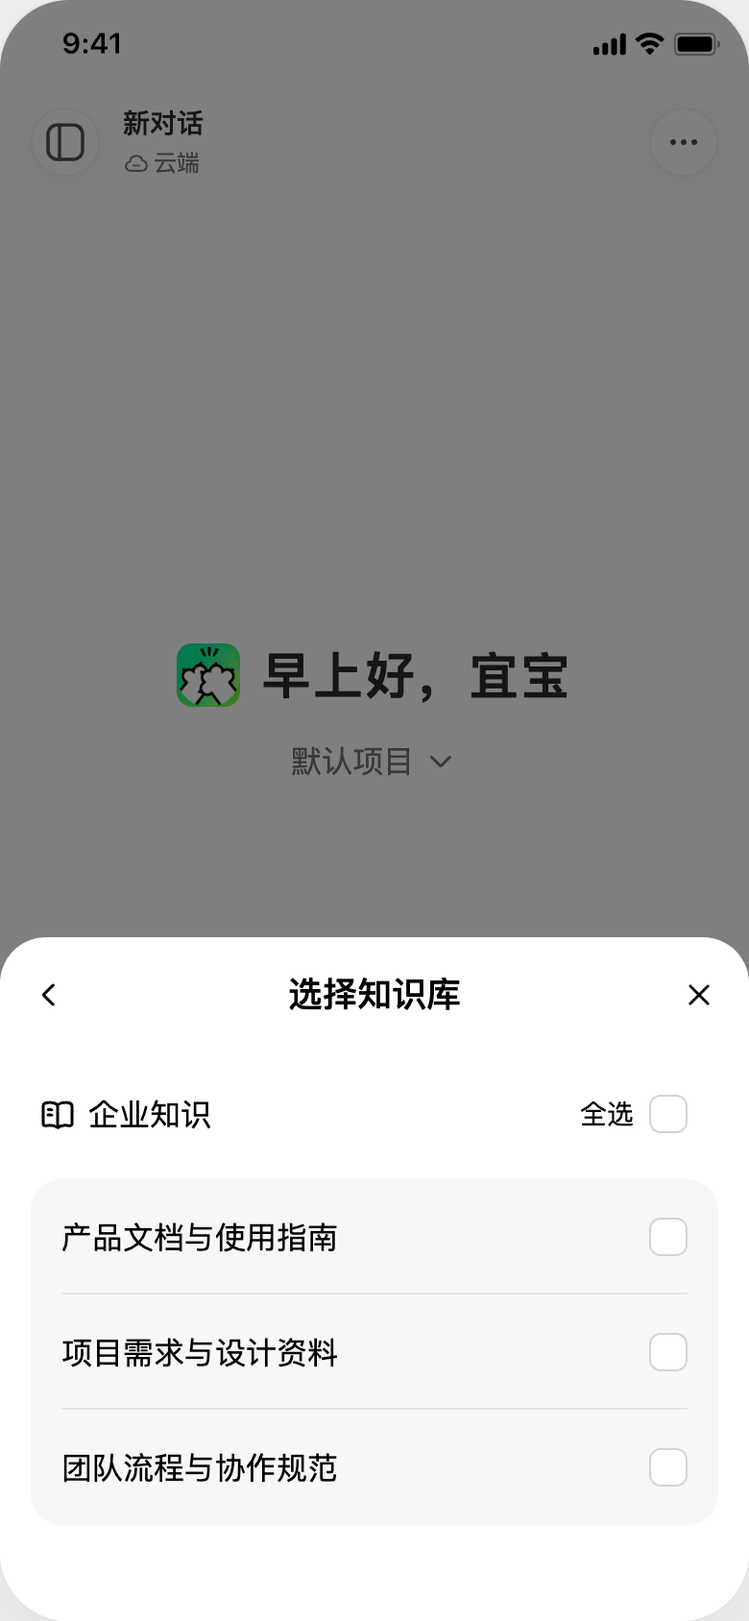
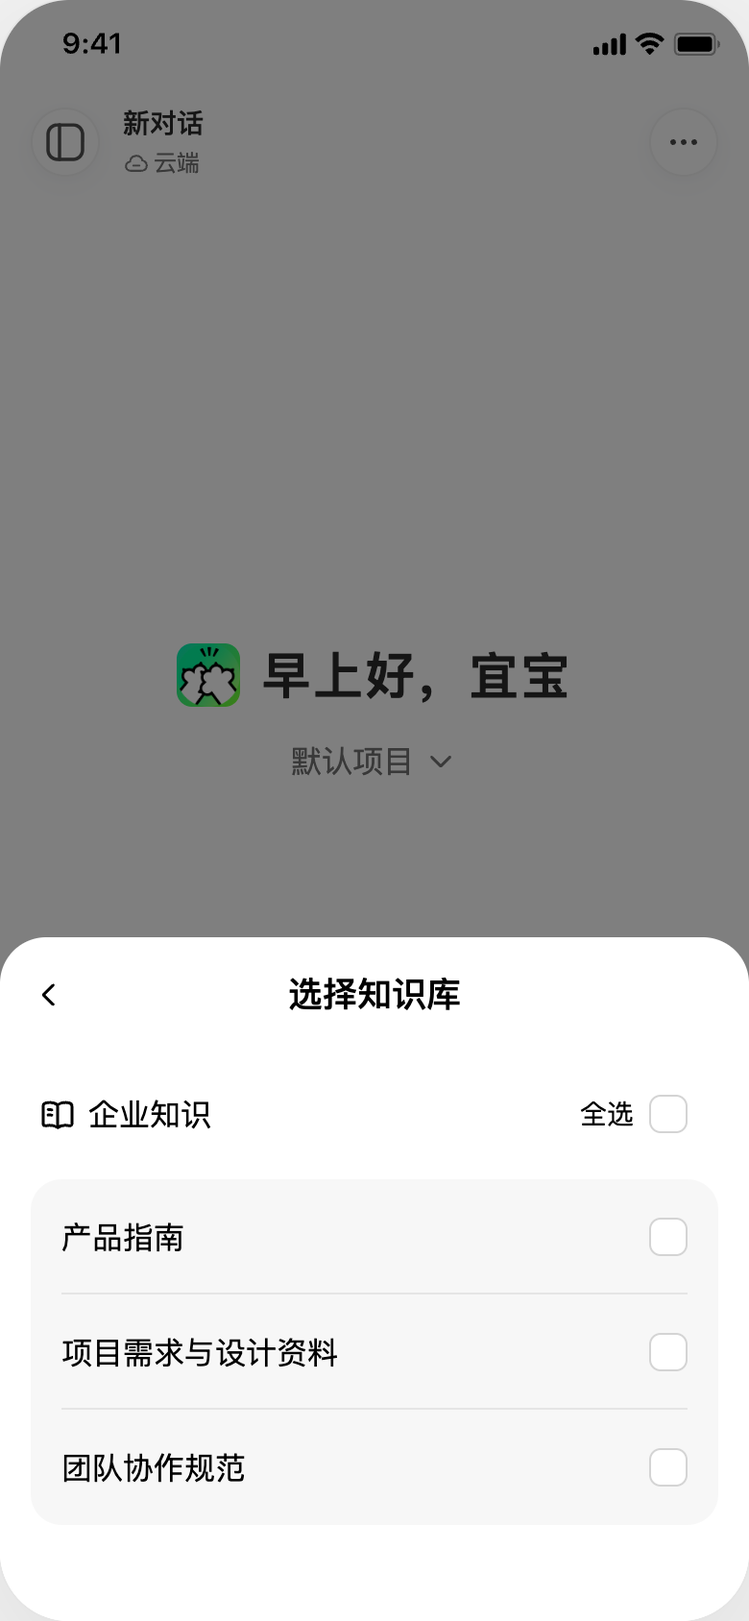
Refine knowledge tags and picker presentation

Changed region(s): [[0.1538, 0.8934, 0.4615, 0.9242], [0.1538, 0.7393, 0.4615, 0.7701]]

diff --git a/app.js b/app.js
@@ -22,13 +22,12 @@ let currentExpert = '';
     const palette = mobileExperts.find(expert => expert.name === name)?.palette || 'data';
     return `<svg class="expert-avatar${rounded ? ' expert-avatar-rounded' : ''}" viewBox="0 0 24 24" aria-hidden="true" focusable="false">${rounded ? `<rect width="24" height="24" rx="6" fill="var(--expert-${palette}-background)"/>` : `<circle cx="12" cy="12" r="12" fill="var(--expert-${palette}-background)"/>`}<path d="M4.2 24V12.3c0-3.4 1-6.5 2.8-8.9l2 3.4a8.5 8.5 0 0 1 6.4-.5l1.3-2.9c2 2.8 3.3 5.6 3.3 8.9 0 3.2-1.2 5.3-3.2 6.1-.5.2-.6.5-.6 1V24Z" fill="var(--expert-${palette}-face)"/><circle cx="10.6" cy="11.7" r="1" fill="var(--expert-${palette}-accent)"/><circle cx="15.8" cy="11.4" r="1" fill="var(--expert-${palette}-accent)"/></svg>`;
   }
-function pickerSheetHeader(title, closeId = '', fromAdd = false) {
-  const action = closeId ? `id="${closeId}"` : 'data-action="close-sheet"';
+function pickerSheetHeader(title, fromAdd = false) {
   const back = fromAdd ? '<button type="button" class="picker-sheet-back" data-action="back-to-add" aria-label="返回添加面板"><svg aria-hidden="true" viewBox="0 0 24 24"><path d="m14 6-6 6 6 6" fill="none" stroke="currentColor" stroke-width="1.8" stroke-linecap="round" stroke-linejoin="round"/></svg></button>' : '<span></span>';
-  return `<div class="picker-sheet-heading">${back}<h2 class="sheet-title" id="sheet-title">${title}</h2><button type="button" ${action} aria-label="关闭面板">${icon('close')}</button></div>`;
+  return `<div class="picker-sheet-heading">${back}<h2 class="sheet-title" id="sheet-title">${title}</h2><span aria-hidden="true"></span></div>`;
 }
 function openExperts({ fromAdd = false } = {}) {
-  showSheet(`${pickerSheetHeader('我的专家', '', fromAdd)}<div class="mobile-expert-list" role="group" aria-label="选择专家">${mobileExperts.map(expert => `<button type="button" class="mobile-expert-row" data-expert="${expert.name}" aria-pressed="${expert.name === currentExpert}">${mobileExpertAvatar(expert.name,true)}<span class="mobile-expert-copy"><strong>${expert.name}</strong><small>${expert.description}</small></span><span class="mobile-expert-state">${expert.name===currentExpert?'已选':''}</span></button>`).join('')}</div>`, 'experts-sheet');
+  showSheet(`${pickerSheetHeader('我的专家', fromAdd)}<div class="mobile-expert-list" role="group" aria-label="选择专家">${mobileExperts.map(expert => `<button type="button" class="mobile-expert-row" data-expert="${expert.name}" aria-pressed="${expert.name === currentExpert}">${mobileExpertAvatar(expert.name,true)}<span class="mobile-expert-copy"><strong>${expert.name}</strong><small>${expert.description}</small></span><span class="mobile-expert-state">${expert.name===currentExpert?'已选':''}</span></button>`).join('')}</div>`, 'experts-sheet');
 }
 let currentSkill = '';
 let model = 'Auto';
@@ -78,7 +77,7 @@ function openAdd() {
   showSheet(`<h2 id="sheet-title" hidden>添加到对话</h2><div class="attachment-grid">${[['camera','拍照'],['image','相册'],['file','文件'],['book','资料库']].map(([name,label]) => `<button class="attachment-tile" data-attachment="${name}">${icon(name)}<span>${label}</span></button>`).join('')}</div>${[['brain','专家','experts'],['book','知识库','knowledge'],['skills','技能','skills'],['terminal','自定义命令','commands']].map(([name,label,action])=>`<button class="action-row" data-action="${action}"><span class="row-icon">${icon(name)}</span><strong>${label}</strong></button>`).join('')}`, 'add-sheet');
 }
 function openSkills({ fromAdd = false } = {}) {
-  showSheet(`${pickerSheetHeader('我的技能', '', fromAdd)}<div class="skill-list">${skills.map(([name,description,type],i)=>`<button class="skill-row" data-skill="${i}"><span class="skill-art ${type}">${type==='palette'?'<img src="assets/logo.png" alt="">':`<img src="assets/${{docx:'artifact-doc',pdf:'artifact-pdf',pptx:'artifact-ppt','skill-creator':'artifact-markdown',xlsx:'artifact-excel'}[name]}.svg" alt="">`}</span><span class="skill-copy"><span class="skill-name">${name}<span class="badge">内置</span></span><span class="skill-description">${description}</span></span></button>`).join('')}</div>`, 'skills-sheet');
+  showSheet(`${pickerSheetHeader('我的技能', fromAdd)}<div class="skill-list">${skills.map(([name,description,type],i)=>`<button class="skill-row" data-skill="${i}"><span class="skill-art ${type}">${type==='palette'?'<img src="assets/logo.png" alt="">':`<img src="assets/${{docx:'artifact-doc',pdf:'artifact-pdf',pptx:'artifact-ppt','skill-creator':'artifact-markdown',xlsx:'artifact-excel'}[name]}.svg" alt="">`}</span><span class="skill-copy"><span class="skill-name">${name}<span class="badge">内置</span></span><span class="skill-description">${description}</span></span></button>`).join('')}</div>`, 'skills-sheet');
 }
 function selectSkill(index) {
   currentSkill = skills[index][0];
@@ -94,7 +93,7 @@ function fillPrompt(text) {
 }
 function syncExpertTag() {
   $('#expert-context').hidden=!currentExpert;
-  $('#expert-trigger').innerHTML=currentExpert?`${mobileExpertAvatar(currentExpert,true)}<span>${currentExpert}</span>`:'';
+  $('#expert-trigger').innerHTML=currentExpert?`${mobileExpertAvatar(currentExpert)}<span>${currentExpert}</span>`:'';
   $('#composer-contexts').hidden=!currentExpert && !$('#message').knowledgeEnabled && $('#selected-skill').hidden;
 }
 function updateInput() {
@@ -153,7 +152,7 @@ content.addEventListener('click', event => {
   if (action === 'knowledge') return window.CatpawKnowledge.open({ fromAdd });
   if (action === 'skills') return openSkills({ fromAdd });
   if (action === 'experts') return openExperts({ fromAdd });
-  if (action === 'commands') return showSheet(`${pickerSheetHeader('自定义命令', '', fromAdd)}<div class="simple-list">${['总结这段内容','润色这段文字','翻译成英文'].map(name=>`<button class="action-row" data-command="${name}"><span class="row-icon">${icon('terminal')}</span>${name}</button>`).join('')}</div>`, 'commands-sheet');
+  if (action === 'commands') return showSheet(`${pickerSheetHeader('自定义命令', fromAdd)}<div class="simple-list">${['总结这段内容','润色这段文字','翻译成英文'].map(name=>`<button class="action-row" data-command="${name}"><span class="row-icon">${icon('terminal')}</span>${name}</button>`).join('')}</div>`, 'commands-sheet');
   if (button.dataset.expert) {currentExpert=button.dataset.expert;updateInput();closeSheet();$('#message').focus({preventScroll:true});return;}
   if (button.dataset.command) {closeSheet();fillPrompt(`${button.dataset.command}：`);return;}
   if (button.dataset.model) {model=button.dataset.model;$('#model-button').textContent=model;closeSheet();return;}

diff --git a/knowledge-picker.js b/knowledge-picker.js
@@ -4,9 +4,9 @@
   const iconMode = new URLSearchParams(location.search).get('knowledge-mode') === 'icons';
   const individual = independent || iconMode;
   const databases = [
-    { id:'product', name:'产品文档与使用指南', description:'产品介绍、功能说明与使用指南' },
+    { id:'product', name:'产品指南', description:'产品介绍、功能说明与使用指南' },
     { id:'project', name:'项目需求与设计资料', description:'项目方案、需求与交付资料' },
-    { id:'team', name:'团队流程与协作规范', description:'团队流程、协作规范与常见问题' },
+    { id:'team', name:'团队协作规范', description:'团队流程、团队协作规范与常见问题' },
   ];
   const input = document.querySelector('#message');
   const trigger = document.querySelector('#knowledge-trigger');
@@ -17,6 +17,7 @@
   let remembered = new Set();
   let hasSelection = false;
   let iconAllMode = false;
+  let enterpriseEnabled = false;
   let selection = { enabled:false, selected:new Set() };
 
   function syncTrigger() {
@@ -24,19 +25,26 @@
     const badge = document.querySelector('#knowledge-count');
     badge.textContent = String(count);
     const single=count===1;
-    document.querySelector('#knowledge-label').textContent=single?input.knowledgeBases[0]:'知识';
-    badge.hidden = !input.knowledgeEnabled || single;
+    const enterpriseTag=iconMode && iconAllMode;
+    document.querySelector('#knowledge-label').textContent=enterpriseTag?'企业知识':single?input.knowledgeBases[0]:'知识';
+    badge.hidden = !input.knowledgeEnabled || single || enterpriseTag;
     const individualTags=iconMode && !iconAllMode && input.knowledgeEnabled && count>0;
     const tagList=document.querySelector('#knowledge-document-tags');
     tagList.replaceChildren();
     tagList.hidden=!individualTags;
     if(individualTags){
       input.knowledgeBases.forEach(name=>{
-        const tag=document.createElement('button');tag.type='button';
-        tag.className='composer-context-tag knowledge-context knowledge-document-trigger';
-        tag.setAttribute('aria-label',`重新选择知识：${name}`);tag.setAttribute('aria-haspopup','dialog');
-        tag.innerHTML='<svg aria-hidden="true"><use href="#book"/></svg><span></span>';
-        tag.querySelector('span').textContent=name;tagList.append(tag);
+        const tag=document.createElement('div');
+        tag.className='composer-context-tag knowledge-context knowledge-document-tag';
+        const opener=document.createElement('button');opener.type='button';opener.className='knowledge-document-trigger';
+        opener.setAttribute('aria-label',`重新选择知识：${name}`);opener.setAttribute('aria-haspopup','dialog');
+        opener.innerHTML='<svg aria-hidden="true"><use href="#book"/></svg><span></span>';
+        opener.querySelector('span').textContent=name;
+        const remove=document.createElement('button');remove.type='button';remove.className='context-remove';
+        remove.dataset.knowledgeRemove=databases.find(item=>item.name===name).id;
+        remove.setAttribute('aria-label',`移除知识：${name}`);
+        remove.innerHTML='<img src="assets/figma/tag-close.svg" alt="">';
+        tag.append(opener,remove);tagList.append(tag);
       });
     }
     trigger.hidden = !input.knowledgeEnabled || individualTags;
@@ -49,6 +57,7 @@
     remembered = new Set();
     hasSelection = false;
     iconAllMode = false;
+    enterpriseEnabled = false;
     selection = { enabled:false, selected:new Set() };
     input.knowledgeEnabled = false;
     input.knowledgeBases = [];
@@ -95,7 +104,7 @@
       ? '<label class="knowledge-all-label"><span>全选</span><input type="checkbox" class="knowledge-all-checkbox" id="knowledge-enterprise-toggle" aria-label="全选知识库"></label>'
       : '<button type="button" class="knowledge-switch" id="knowledge-enterprise-toggle" role="switch" aria-checked="false" aria-label="使用企业知识"><span></span></button>';
     selection = { enabled:input.knowledgeEnabled, selected:individual?new Set(databases.filter(item=>input.knowledgeBases.includes(item.name)).map(item=>item.id)):new Set(remembered) };
-    window.showSheet(`${window.pickerSheetHeader('选择知识库','knowledge-cancel',fromAdd)}
+    window.showSheet(`${window.pickerSheetHeader('选择知识库',fromAdd)}
       <div class="knowledge-enterprise"><svg class="knowledge-enterprise-icon" aria-hidden="true"><use href="#book"/></svg><strong>企业知识</strong>${allControl}</div>
       <div class="knowledge-options" id="knowledge-options" role="group" aria-label="可选知识库"></div>`, iconMode?'knowledge-sheet knowledge-icons-sheet':'knowledge-sheet');
     trigger.setAttribute('aria-expanded','true');
@@ -108,7 +117,22 @@
   trigger.addEventListener('click',()=>open());
   const documentTags=document.querySelector('#knowledge-document-tags');
   documentTags.addEventListener('pointerdown',event=>{if(event.button===0)event.preventDefault();});
-  documentTags.addEventListener('click',event=>{if(event.target.closest('.knowledge-document-trigger'))open();});
+  documentTags.addEventListener('click',event=>{
+    const remove=event.target.closest('[data-knowledge-remove]');
+    if(remove){
+      selection.selected.delete(remove.dataset.knowledgeRemove);
+      if(selection.selected.size===0 && enterpriseEnabled){
+        selection.selected=new Set(databases.map(item=>item.id));
+        selection.enabled=true;iconAllMode=true;
+      }else{
+        selection.enabled=selection.selected.size>0;iconAllMode=false;
+      }
+      saveSelection();
+      (documentTags.querySelector('.knowledge-document-trigger') || document.querySelector('#add-button')).focus({preventScroll:true});
+      return;
+    }
+    if(event.target.closest('.knowledge-document-trigger'))open();
+  });
   content.addEventListener('change', event => {
     if(independent && event.target.id==='knowledge-enterprise-toggle'){
       selection.enabled=event.target.checked;
@@ -137,7 +161,7 @@
     switch (button.id) {
       case 'knowledge-enterprise-toggle':
         selection.enabled=independent ? selection.selected.size !== databases.length : !selection.enabled;
-        if(iconMode)iconAllMode=selection.enabled;
+        if(iconMode){iconAllMode=selection.enabled;enterpriseEnabled=selection.enabled;}
         if(individual)selection.selected=new Set(selection.enabled?databases.map(item=>item.id):[]);
         else if(selection.enabled && !hasSelection)selection.selected=new Set(databases.map(item=>item.id));
         renderOptions();saveSelection();

diff --git a/design-review.js b/design-review.js
@@ -29,18 +29,24 @@
     ['展开输入','点击输入框，文字区展开为两行并唤起键盘。'],
     ['打开添加面板','点击加号，选择列表中的“知识库”。'],
     ['选择知识库',iconMode?'企业知识默认关闭，下方列表隐藏。':independent?'可勾选“全选”，也可直接勾选下方任意知识库。':'企业知识默认关闭，列表不可选择。'],
-    iconMode?['开启并多选全部','开启开关后展示列表，默认选中全部知识库；面板保持打开。']:independent?['单独添加','直接勾选“产品文档与使用指南”，立即添加，不影响其他选项。']:['开启企业知识','开启开关，默认选中全部三个知识库。'],
-    iconMode?['单项添加后返回首页','首次点击单项右侧的指定图标进入逐项添加，回到首页显示所选知识文档的名称；再次打开列表仍显示相同图标。']:independent?['一键全选','勾选“全选”可选中全部三个知识库；取消勾选可清空，取消任一单项后，“全选”恢复空心描边状态。']:['按需调整','取消“团队流程与协作规范”，保留两个知识库；关闭开关暂停使用但保留勾选，再开启恢复。'],
-    ['已添加知识库',iconMode?'再次打开并添加另一篇，输入框上方分别展示两篇知识的名称标签；重复添加不产生重复标签。':`选择即时生效，关闭面板后输入正文上方显示绿色“知识 ${independent?3:2}”。`],
+    iconMode?['开启并多选全部','开启开关后展示列表并使用全部，面板保持打开；未逐项指定时，输入框显示“企业知识”标签，不带数量。']:independent?['单独添加','直接勾选“产品指南”，立即添加，不影响其他选项。']:['开启企业知识','开启开关，默认选中全部三个知识库。'],
+    iconMode?['单项添加后返回首页','首次点击单项右侧的指定图标进入逐项添加，回到首页显示所选知识文档的名称；再次打开列表仍显示相同图标。']:independent?['一键全选','勾选“全选”可选中全部三个知识库；取消勾选可清空，取消任一单项后，“全选”恢复空心描边状态。']:['按需调整','取消“团队协作规范”，保留两个知识库；关闭开关暂停使用但保留勾选，再开启恢复。'],
+    ['已添加知识库',iconMode?'再次打开并添加另一篇，输入框上方分别展示两篇知识的名称标签；重复添加不产生重复标签；可点击各标签叉号独立移除；删完最后一篇时，开关仍开启则恢复“企业知识”标签。':`选择即时生效，关闭面板后输入正文上方显示“知识 ${independent?3:2}”。`],
     ['收起输入','空内容点击外部后恢复单行，已选知识库标签仍显示在输入区上方。'],
     ['专家与知识库并排','专家和知识库标签并排位于输入正文上方；点击知识库标签重新选择，专家可通过叉号移除。'],
   ];
   const frames=steps.map(([title,description],index)=>{
     const figure=document.createElement('figure');figure.className='review-step';
     figure.innerHTML=`<button type="button" class="review-step-image" aria-label="查看步骤 ${index+1}：${title}" disabled></button><figcaption><div class="review-step-label"><span>${String(index+1).padStart(2,'0')} · ${title}</span></div><p>${description}</p></figcaption>`;
+    if(index===3){
+      const note=document.createElement('p');
+      note.className='review-height-note';
+      note.textContent='标注：高度和上一级面板一致。';
+      figure.querySelector('figcaption').append(note);
+    }
     if(index===6){
       const note=document.createElement('p');
-      note.textContent='交互说明：点击输入正文上方的绿色知识库标签，可再次打开“选择知识库”弹窗，调整已选知识库；修改立即生效。';
+      note.textContent='交互说明：点击输入正文上方的知识标签，可再次打开“选择知识库”弹窗，调整已选知识库；修改立即生效。';
       figure.querySelector('figcaption').append(note);
     }
     gallery.querySelector('.review-steps').append(figure);
@@ -49,7 +55,7 @@
   });
   function loadSavedSnapshots() {
     for (let index=0;index<steps.length;index++) {
-      const src=new URL(`assets/${iconMode?'design-review-icons':independent?'design-review-independent':'design-review'}/step-${index+1}.png?v=20261125-focus-icon20`,location.href).href;
+      const src=new URL(`assets/${iconMode?'design-review-icons':independent?'design-review-independent':'design-review'}/step-${index+1}.png?v=20261125-attachment72`,location.href).href;
       snapshots[index]=src;
       const button=frames[index].querySelector('button');
       const image=document.createElement('img');image.src=src;image.alt=`${steps[index][0]}：${steps[index][1]}`;
@@ -121,7 +127,7 @@
         if(index===3)win.document.querySelector('[data-action="knowledge"]').click();
         if(index===4)click(independent?'[data-knowledge-id="product"]':'#knowledge-enterprise-toggle');
         if(index===5){click(iconMode?'[data-knowledge-add="product"]':independent?'#knowledge-enterprise-toggle':'[data-knowledge-id="team"]');if(iconMode)await waitFor(win,()=>doc.querySelector('#modal-layer').hidden);}
-        if(index===6){if(iconMode){win.CatpawKnowledge.open();click('[data-knowledge-add="team"]');}else click('#knowledge-cancel');await waitFor(win,()=>doc.querySelector('#modal-layer').hidden);win.CatpawDemoKeyboard.setOpen(true,true);}
+        if(index===6){if(iconMode){win.CatpawKnowledge.open();click('[data-knowledge-add="team"]');}else win.closeSheet();await waitFor(win,()=>doc.querySelector('#modal-layer').hidden);win.CatpawDemoKeyboard.setOpen(true,true);}
         if(index===7)win.CatpawDemoKeyboard.dismiss(true);
         if(index===8){win.CatpawDemoKeyboard.setOpen(true,true);win.openExperts();click('[data-expert="数据分析师"]');await waitFor(win,()=>doc.querySelector('#modal-layer').hidden);win.CatpawDemoKeyboard.setOpen(true,true);}
         await settle(win);

diff --git a/index.html b/index.html
@@ -6,12 +6,12 @@
   <meta name="theme-color" content="#ffffff">
   <title>Catpaw · 新对话</title>
   <link rel="stylesheet" href="design-tokens.css?v=20261125-text16">
-  <link rel="stylesheet" href="styles.css?v=20261123-picker-heading18">
-  <link rel="stylesheet" href="mobile-conversation.css?v=20261124-context-gap12">
-  <link rel="stylesheet" href="knowledge-picker.css?v=20261125-focus-icon20">
+  <link rel="stylesheet" href="styles.css?v=20261125-attachment72">
+  <link rel="stylesheet" href="mobile-conversation.css?v=20261125-tag-insets">
+  <link rel="stylesheet" href="knowledge-picker.css?v=20261125-tag-insets">
   <link rel="stylesheet" href="vendor/ios-kit/keyboard.css">
   <link rel="stylesheet" href="demo-keyboard.css?v=20261125-document-tags">
-  <link rel="stylesheet" href="design-review.css?v=20261124-scheme-actions">
+  <link rel="stylesheet" href="design-review.css?v=20261125-orange-note">
 </head>
 <body>
   <svg class="svg-library" xmlns="http://www.w3.org/2000/svg"><defs>
@@ -90,11 +90,11 @@
     <div class="toast" id="toast" role="status" hidden></div>
     <input type="file" id="file-input" hidden multiple><input type="file" id="photo-input" accept="image/*" hidden multiple><input type="file" id="camera-input" accept="image/*" capture="environment" hidden>
   </main>
-  <script src="app.js?v=20261125-document-tags"></script>
-  <script src="knowledge-picker.js?v=20261125-document-tags"></script>
+  <script src="app.js?v=20261125-no-panel-close"></script>
+  <script src="knowledge-picker.js?v=20261125-varied-names"></script>
   <script src="vendor/ios-kit/keyboard.js"></script>
   <script src="demo-keyboard.js?v=20261123-review16"></script>
   <script src="vendor/html-to-image/html-to-image.js"></script>
-  <script src="design-review.js?v=20261125-focus-icon20"></script>
+  <script src="design-review.js?v=20261125-attachment72"></script>
 </body>
 </html>

diff --git a/knowledge-picker.css b/knowledge-picker.css
@@ -2,7 +2,7 @@
 .knowledge-trigger { display:inline-flex;align-items:center;gap:4px;min-width:0;padding:0;background:transparent;color:inherit;font-size:var(--type-label);line-height:21px;white-space:nowrap; }
 .knowledge-trigger>svg { width:16px;height:16px; }
 .knowledge-trigger>span { overflow:hidden;text-overflow:ellipsis; }
-.knowledge-context:has(.knowledge-trigger[aria-expanded="true"]) { background:var(--ds-primary-2); }
+.knowledge-context:has(.knowledge-trigger[aria-expanded="true"]) { background:var(--ds-fill-4); }
 #knowledge-count { flex:none;font-variant-numeric:tabular-nums; }
 .knowledge-sheet { padding-bottom:max(16px,env(safe-area-inset-bottom)); }
 .knowledge-sheet #sheet-content { display:flex;flex-direction:column;overflow:hidden; }
@@ -46,7 +46,7 @@
 .knowledge-item-add::after { content:"";position:absolute;inset:-10px; }
 .knowledge-all-label { display:flex;align-items:center;gap:8px;flex:none;margin-right:16px;min-height:44px;cursor:pointer;font-size:var(--type-label);line-height:24px; }
 
-.knowledge-icons-sheet .knowledge-options { padding:0 var(--space-4);background:var(--ds-background-2);border:.5px solid rgba(59,59,59,.08);border-radius:16px; }
+.knowledge-icons-sheet .knowledge-options { padding:0 var(--space-4);background:var(--ds-background-2);border:.5px solid rgba(59,59,59,.12);border-radius:16px; }
 
 .knowledge-icons-sheet .knowledge-option:not(:last-child)::after { height:.5px;background:rgba(59,59,59,.08); }
 
@@ -58,3 +58,7 @@
 .knowledge-document-trigger>span { overflow:hidden;text-overflow:ellipsis;white-space:nowrap; }
 
 .knowledge-item-add>img { transform:scale(.8333333333); }
+
+.knowledge-document-tag { padding:0 10px; }
+
+.composer-context-tag .context-remove { color:inherit; }

diff --git a/mobile-conversation.css b/mobile-conversation.css
@@ -139,11 +139,11 @@
 /* Selected contexts sit above the text, as in Figma 5091:45587. */
 .composer .composer-contexts { grid-column:1/-1;grid-row:2;display:flex;flex-wrap:wrap;align-items:center;gap:6px;padding-left:4px;margin-bottom:8px;min-width:0; }
 .composer-context-tag { display:inline-flex;align-items:center;gap:4px;max-width:100%;height:28px;padding:0 6px;border-radius:var(--radius-pill);font-size:14px;line-height:21px; }
-.expert-context { background:var(--ds-fill-3);color:var(--ds-text-2); }
-.knowledge-context { padding:0 12px 0 10px;background:var(--ds-primary-1);color:var(--ds-primary-6); }
+.expert-context { padding:0 8px 0 4px;background:var(--ds-fill-3);color:var(--ds-text-2); }
+.knowledge-context { padding:0 12px 0 10px;background:var(--ds-fill-3);color:var(--ds-text-2); }
 .composer-context-tag>button:first-child { display:inline-flex;align-items:center;gap:4px;min-width:0;padding:0;font-size:14px;line-height:21px;white-space:nowrap; }
 #expert-trigger>span { overflow:hidden;text-overflow:ellipsis; }
-#expert-trigger .expert-avatar { width:20px;height:20px;border-radius:6px;flex:none;stroke:none; }
+#expert-trigger .expert-avatar { width:20px;height:20px;border-radius:50%;flex:none;stroke:none; }
 .context-remove { position:relative;display:grid;place-items:center;width:16px;height:16px;flex:none;padding:0; }
 .context-remove img { width:16px;height:16px; }
 .context-remove::after { content:"";position:absolute;inset:-6px -2px; }

diff --git a/styles.css b/styles.css
@@ -373,10 +373,10 @@ svg {
   align-items:center;
   flex-direction:column;
   gap:var(--space-1);
-  height:76px;
-  padding:14px 0;
+  height:72px;
+  padding:14px 0 10px;
   color:var(--ds-text-4);
-  font-size:var(--type-body)
+  font-size:var(--type-label)
 }
 .attachment-tile svg {
   width:24px;
@@ -1105,7 +1105,7 @@ button {
 button:active {
   opacity:1;
 }
-.icon-button:active,.side-links>button:active,.action-row:active,.skill-row:active,.side-history-item:active {
+.icon-button:active,.side-links>button:active,.sheet:not(.add-sheet) .action-row:active,.skill-row:active,.side-history-item:active {
   background:var(--ds-fill-4);
 }
 .icon-button,.side-links>button,.skill-row,.action-row {

diff --git a/design-review.css b/design-review.css
@@ -41,3 +41,5 @@ body.design-review-mode { display:block; }
 .scheme-note-heading button { min-height:28px;padding:2px 10px;border:1px solid var(--ds-border-3);border-radius:var(--radius-pill);background:var(--ds-background-2);color:var(--ds-text-3);font-size:12px;line-height:20px; }
 .scheme-note-heading button[aria-pressed=true] { border-color:transparent;background:var(--ds-fill-3);color:var(--ds-text-4); }
 @media(max-width:1049px) { .scheme-notes { flex-wrap:wrap; } }
+
+.review-step figcaption .review-height-note { color:var(--ds-warning-5); }

diff --git a/README.md b/README.md
@@ -85,4 +85,6 @@ npm run preview -- "/完整路径/HTML文件夹" --entry index.html --port 5175
 
 知识库和专家标签位于输入框内部、正文上方，可以并排显示。点击标签重新选择；专家通过叉号移除，知识库在选择面板中调整或清空；空输入点击外部仍会收起文字区，已选标签保留。
 
-「方案三」通过 `?knowledge-mode=icons` 打开：开关关闭隐藏列表；开启默认使用全部并展开列表，面板不收起。首次点击单项“指定”按钮进入逐项添加，选择一项并返回首页；继续添加其他项会累计，同一项不重复计数。列表始终显示“指定”，不显示选中状态；逐项添加的知识各自显示名称标签；开关使用全部时显示汇总标签。设计稿资源位于 `assets/design-review-icons/`。
+「方案三」通过 `?knowledge-mode=icons` 打开：开关关闭隐藏列表；开启默认使用全部并展开列表，面板不收起。首次点击单项“指定”按钮进入逐项添加，选择一项并返回首页；继续添加其他项会累计，同一项不重复计数。列表始终显示“指定”，不显示选中状态；逐项添加的知识各自显示名称标签，并带与专家一致的叉号以独立移除；开关使用全部时显示汇总标签。设计稿资源位于 `assets/design-review-icons/`。
+
+方案三删除最后一篇指定知识时，若企业知识开关仍开启，则回到全部企业知识，恢复无数量、无叉号的「企业知识」标签；关闭开关才彻底停用。
